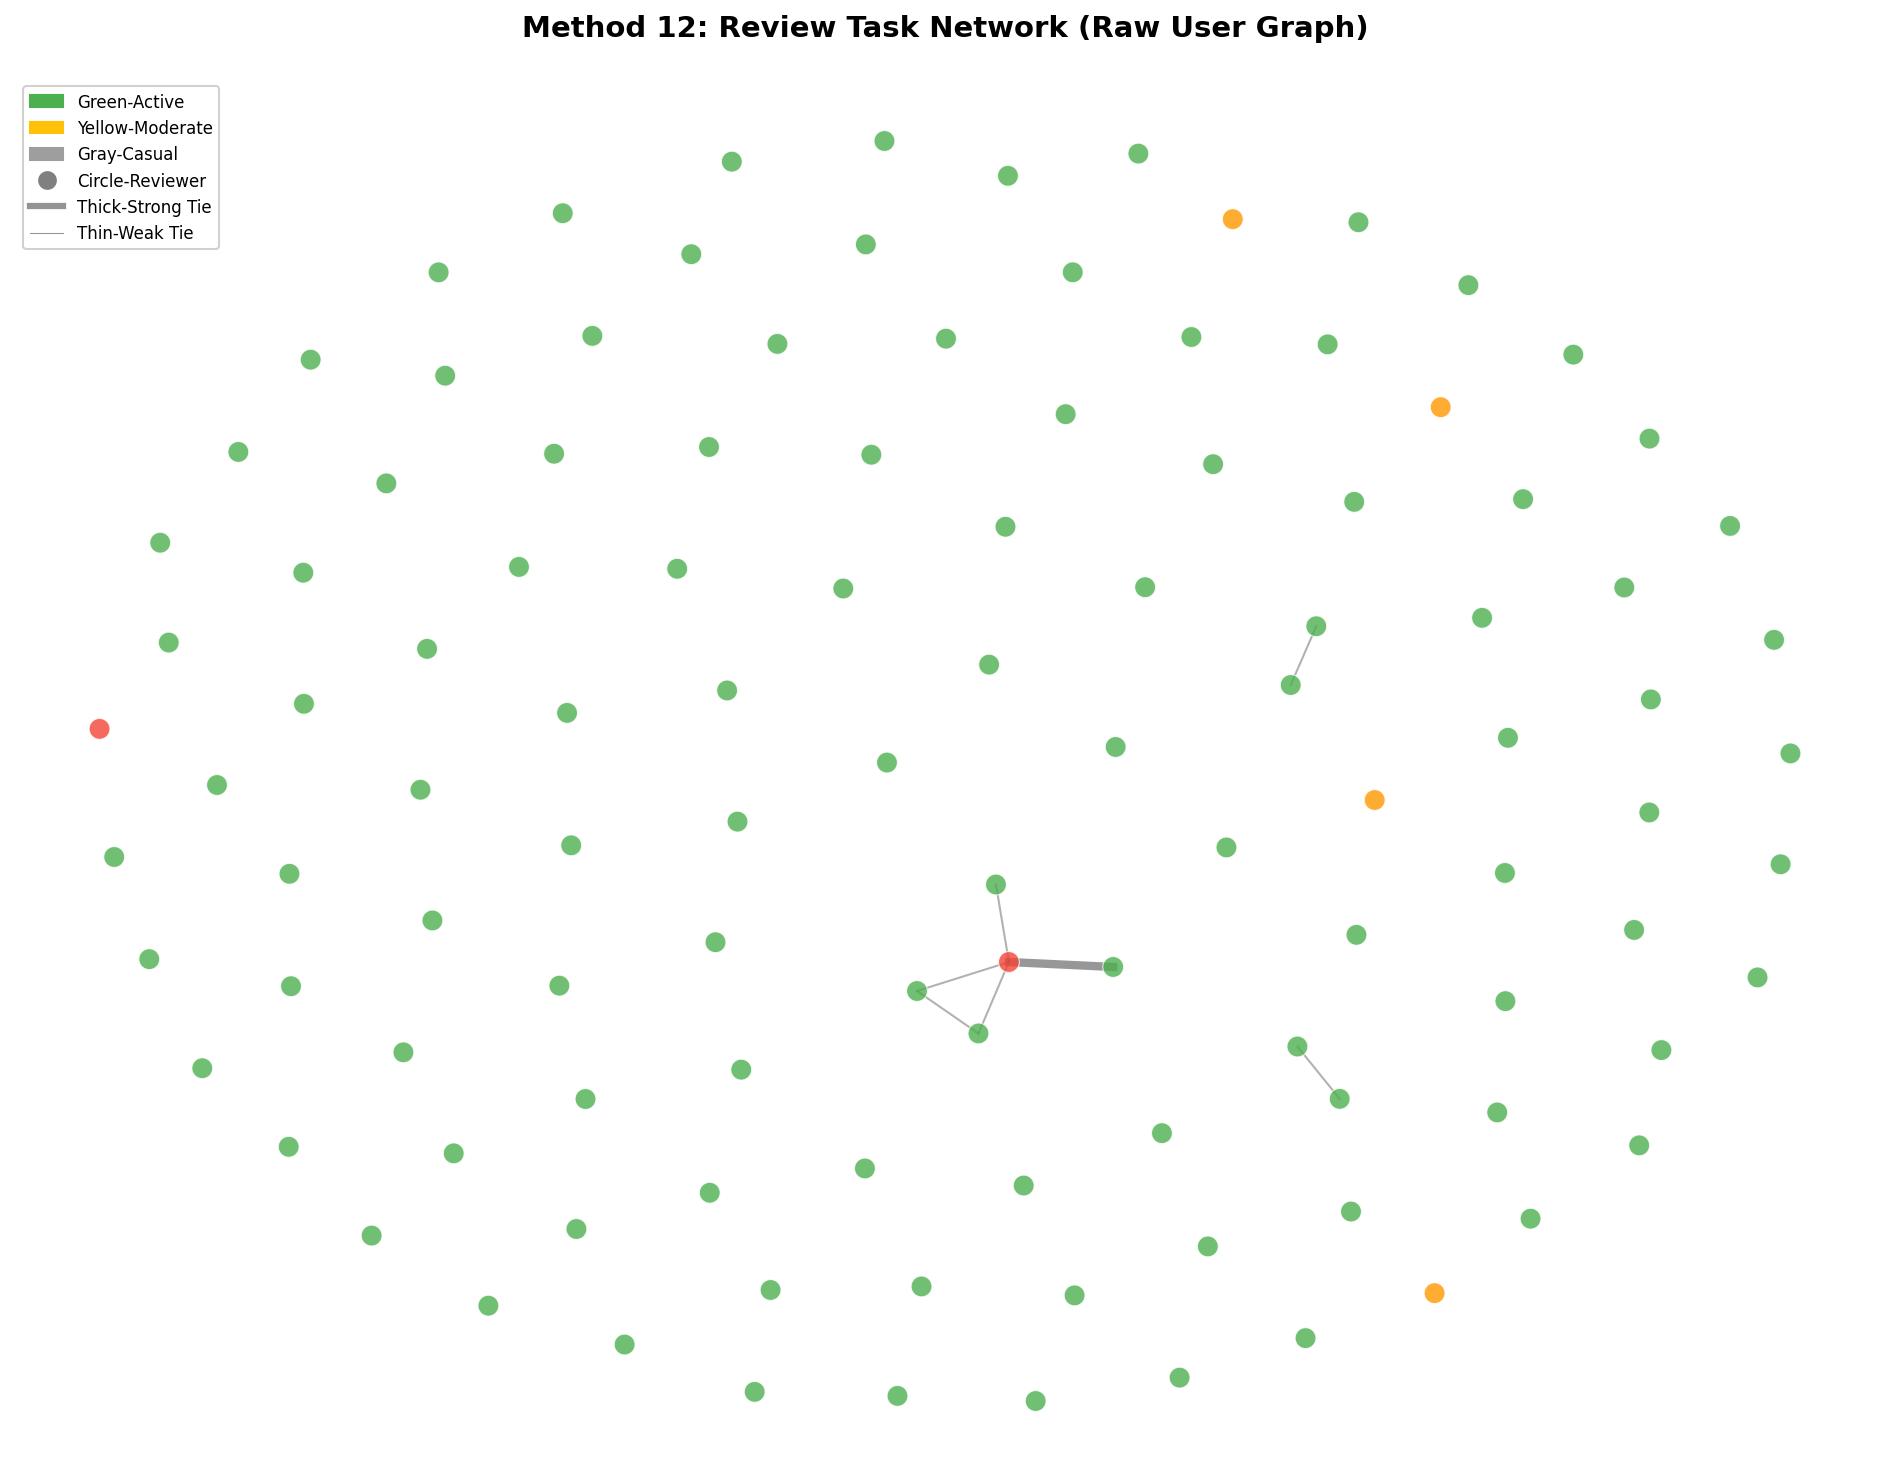
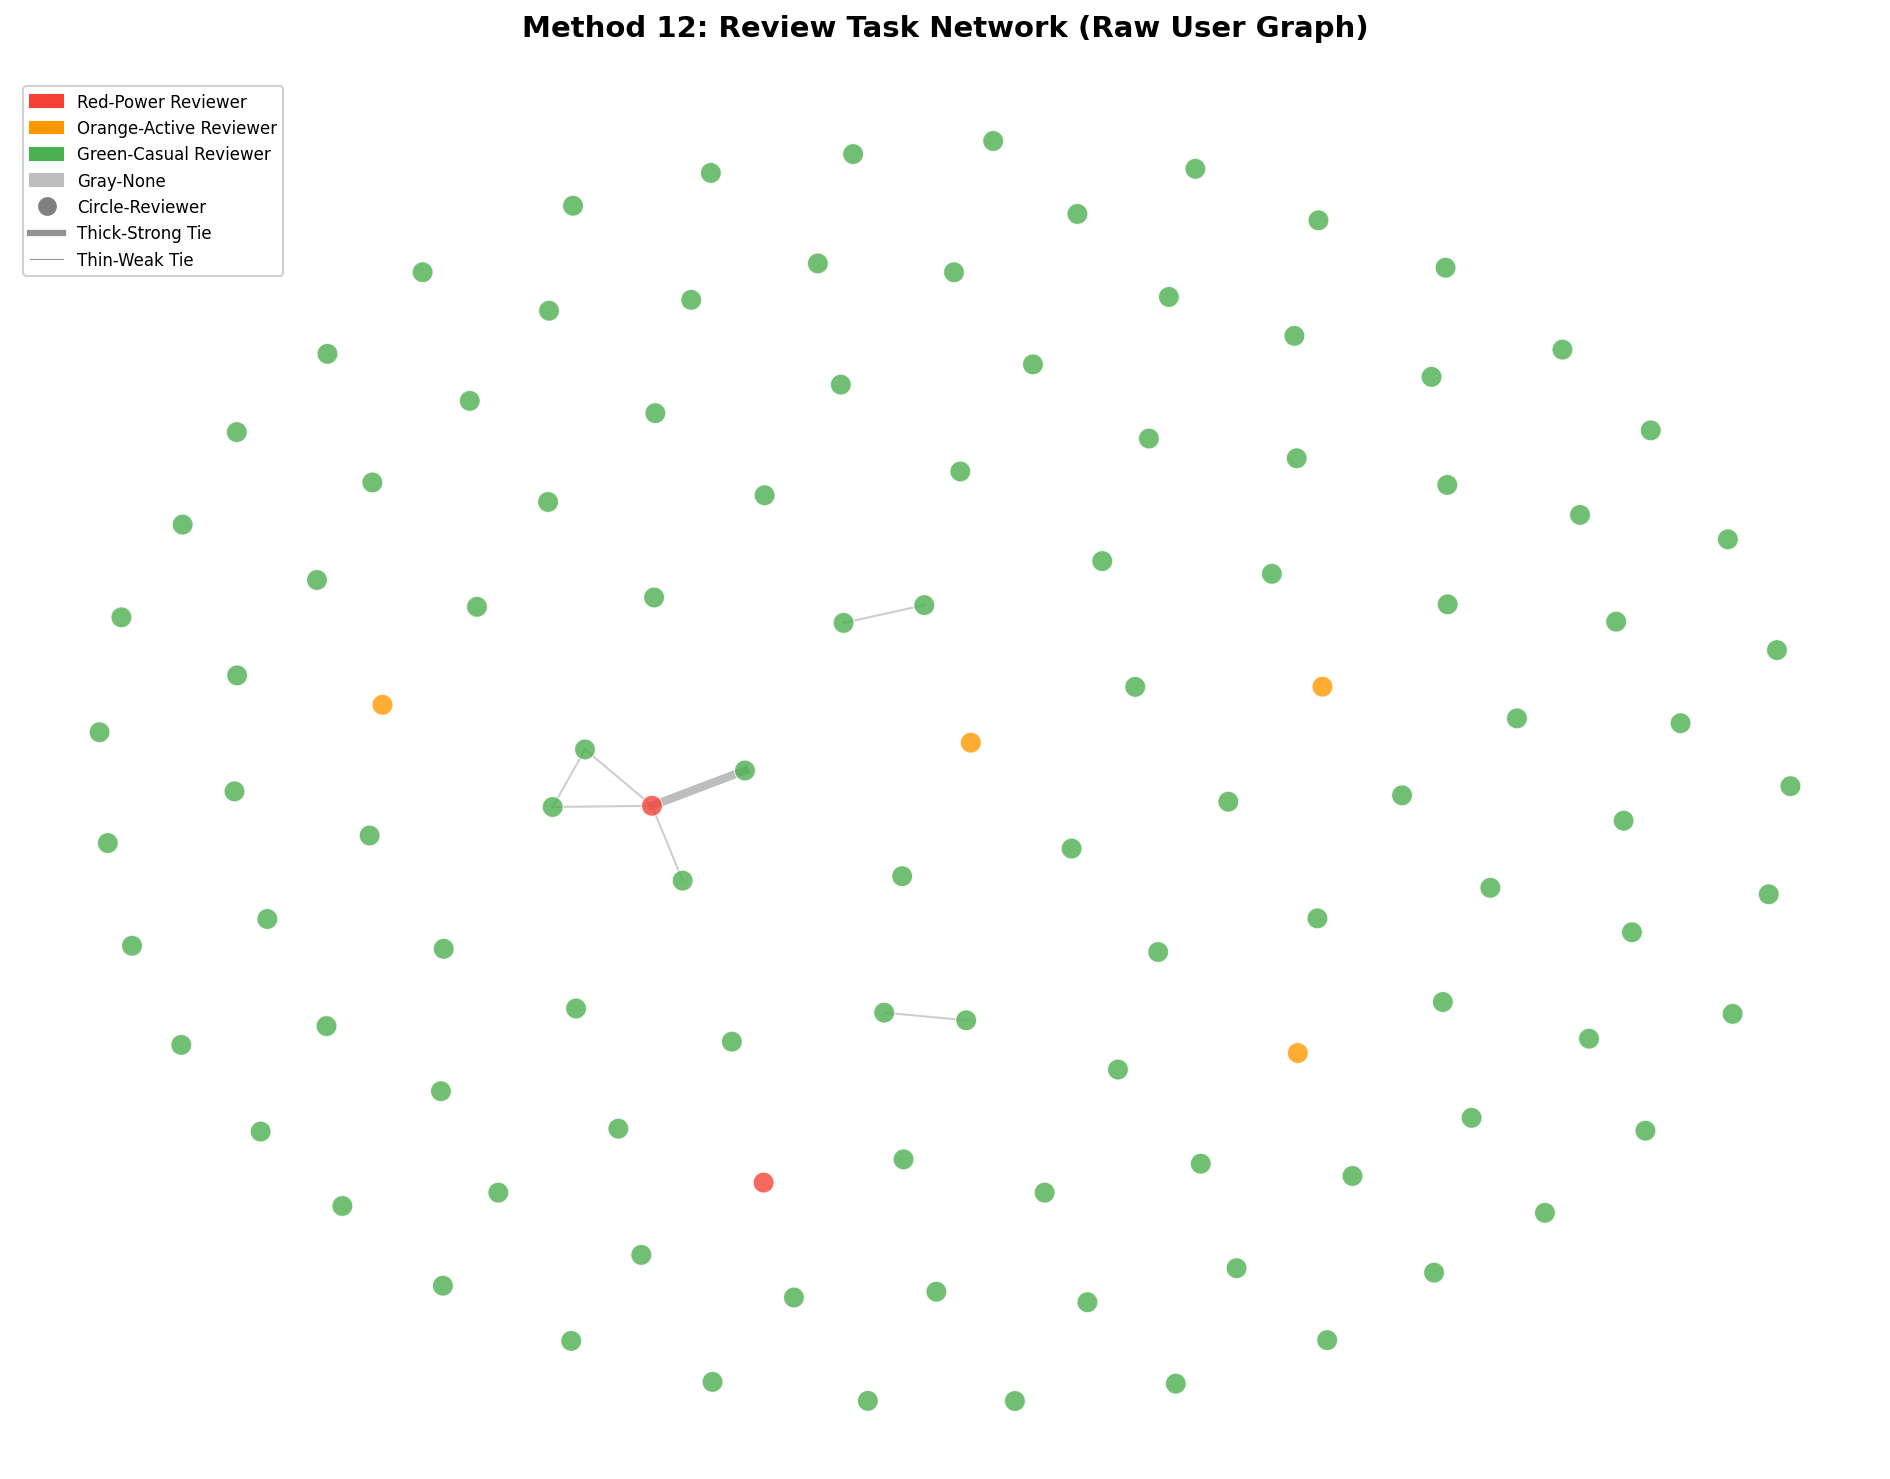
fix: update analysis 12 data structure and visualization attributes

diff --git a/src/sna_runner.py b/src/sna_runner.py
@@ -429,9 +429,10 @@ class SNARunner:
             },
             "analysis_12": {
                 "colors": {
-                    "Green-Active": "#4CAF50",
-                    "Yellow-Moderate": "#FFC107",
-                    "Gray-Casual": "#9E9E9E",
+                    "Red-Power Reviewer": "#F44336",
+                    "Orange-Active Reviewer": "#FF9800",
+                    "Green-Casual Reviewer": "#4CAF50",
+                    "Gray-None": "#BDBDBD",
                 },
                 "shapes": {
                     "Circle-Reviewer": "o",
